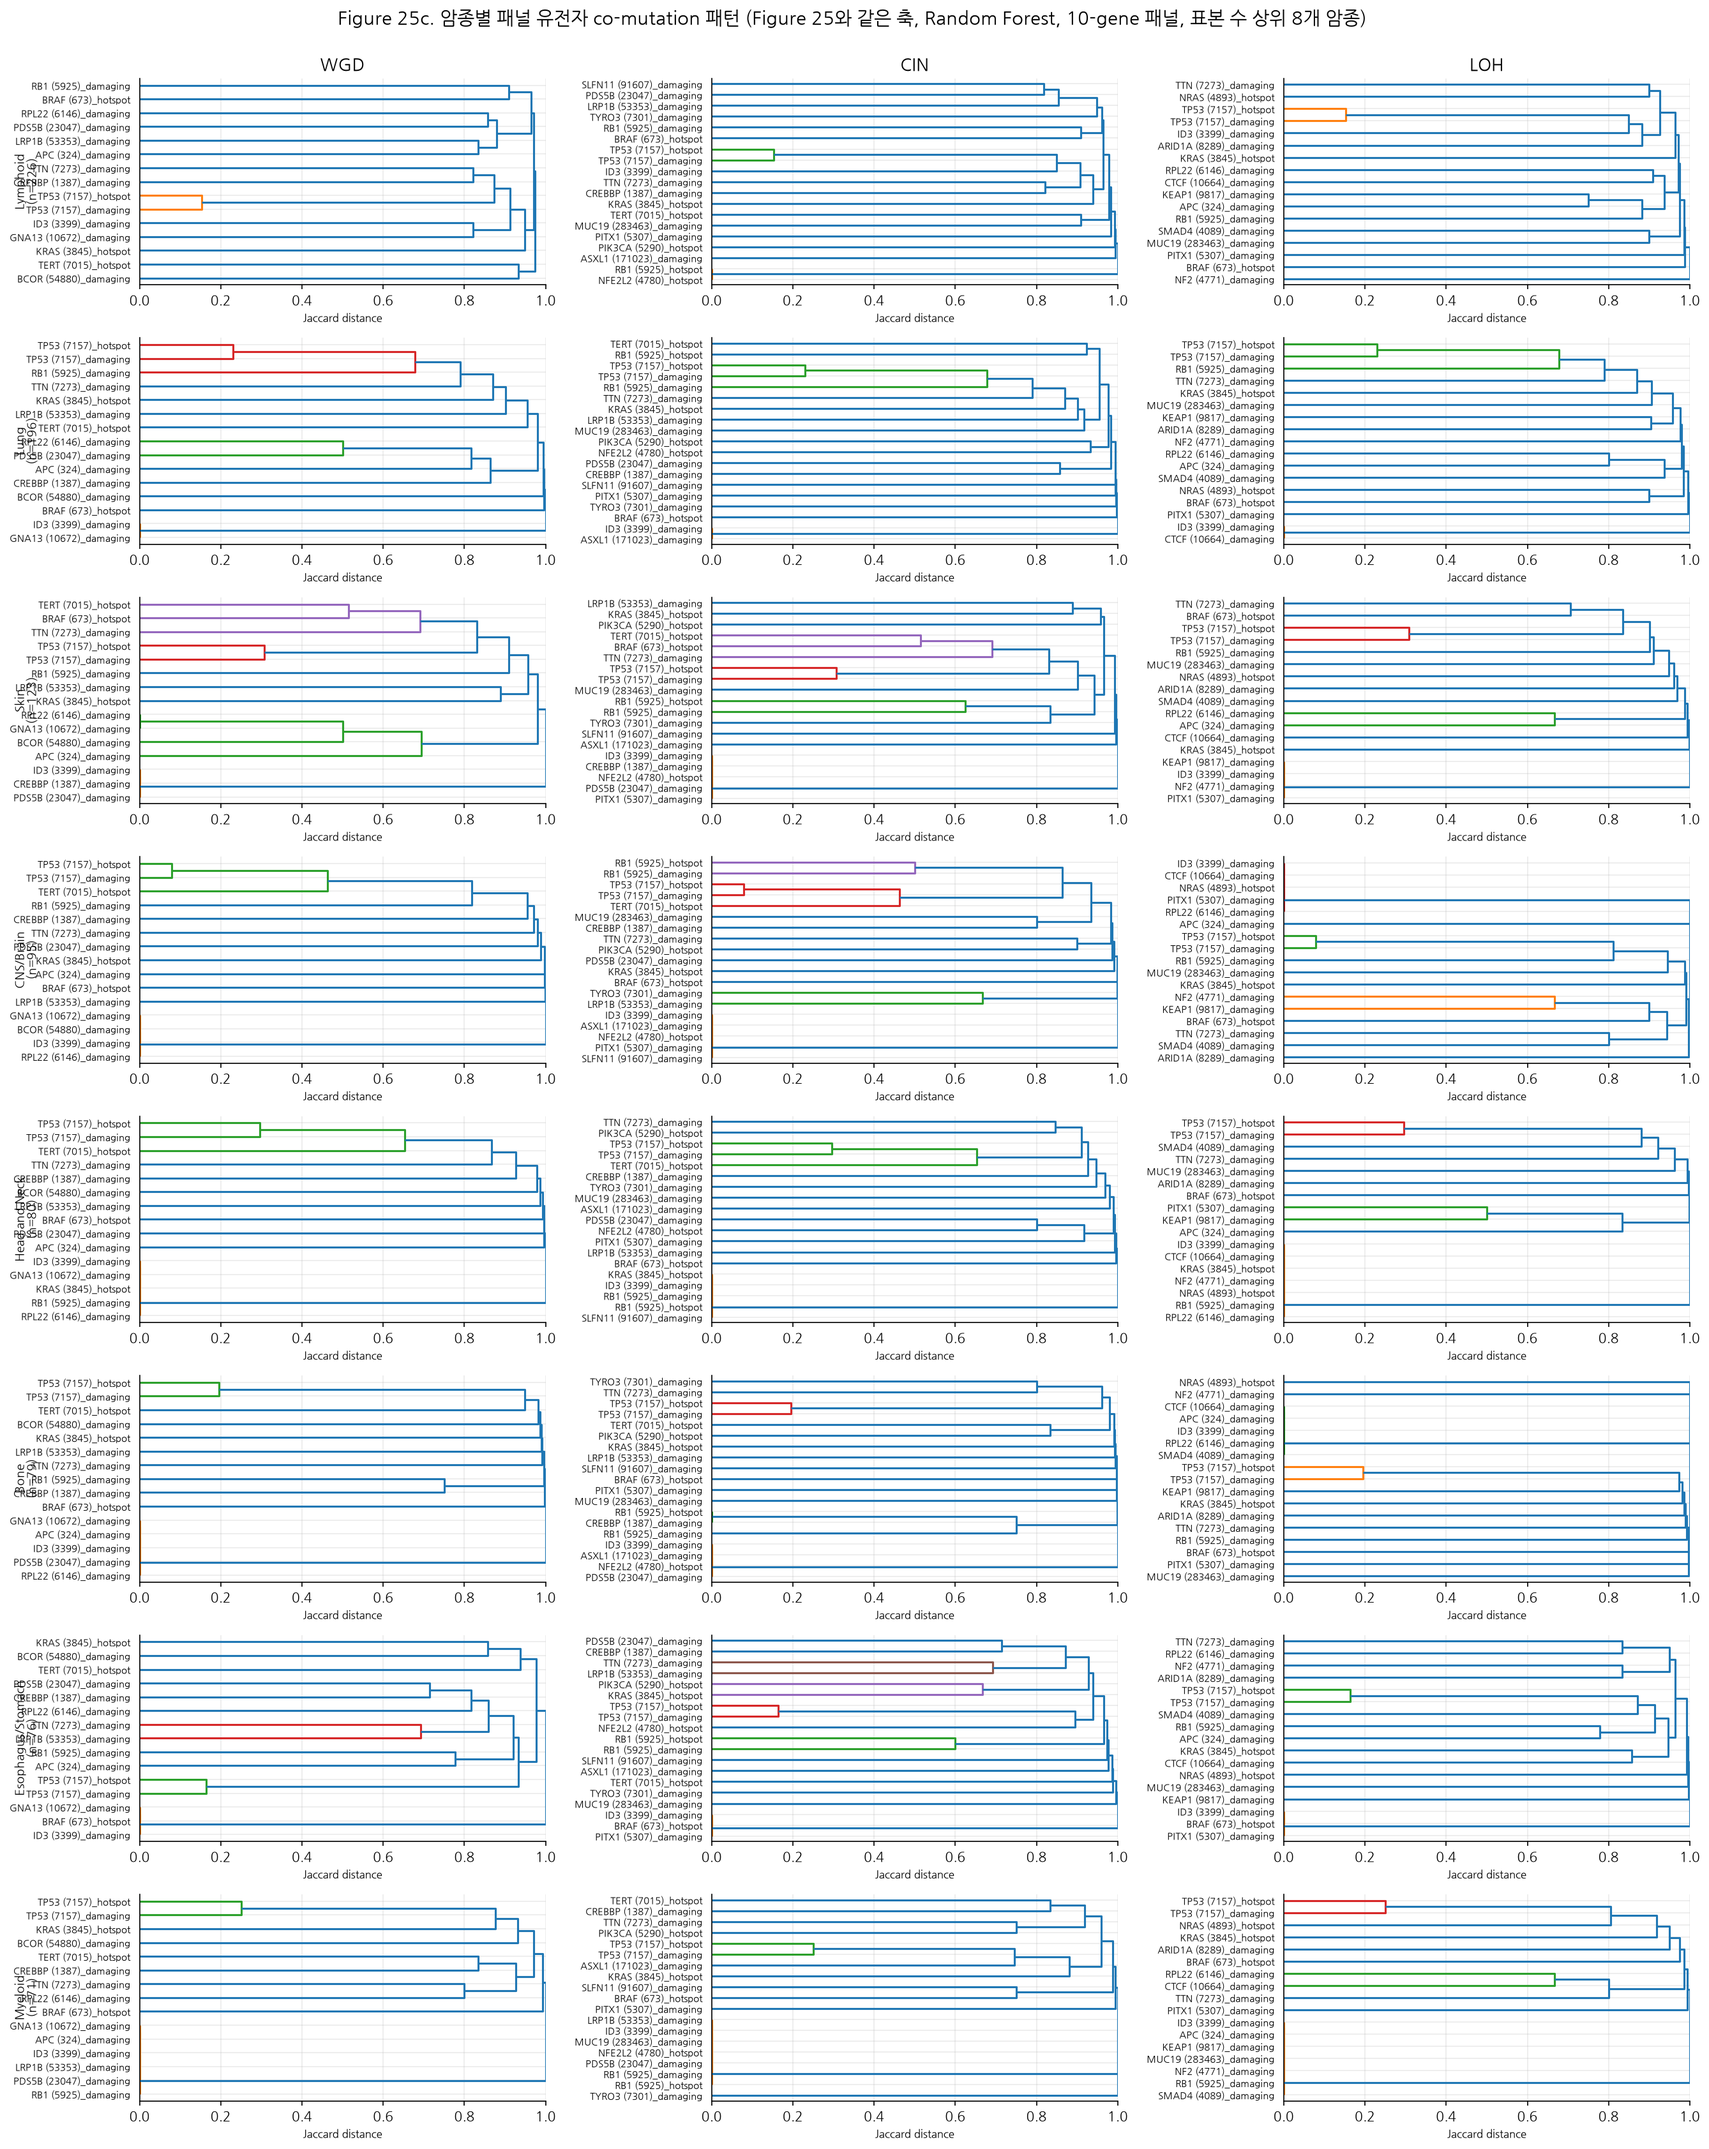
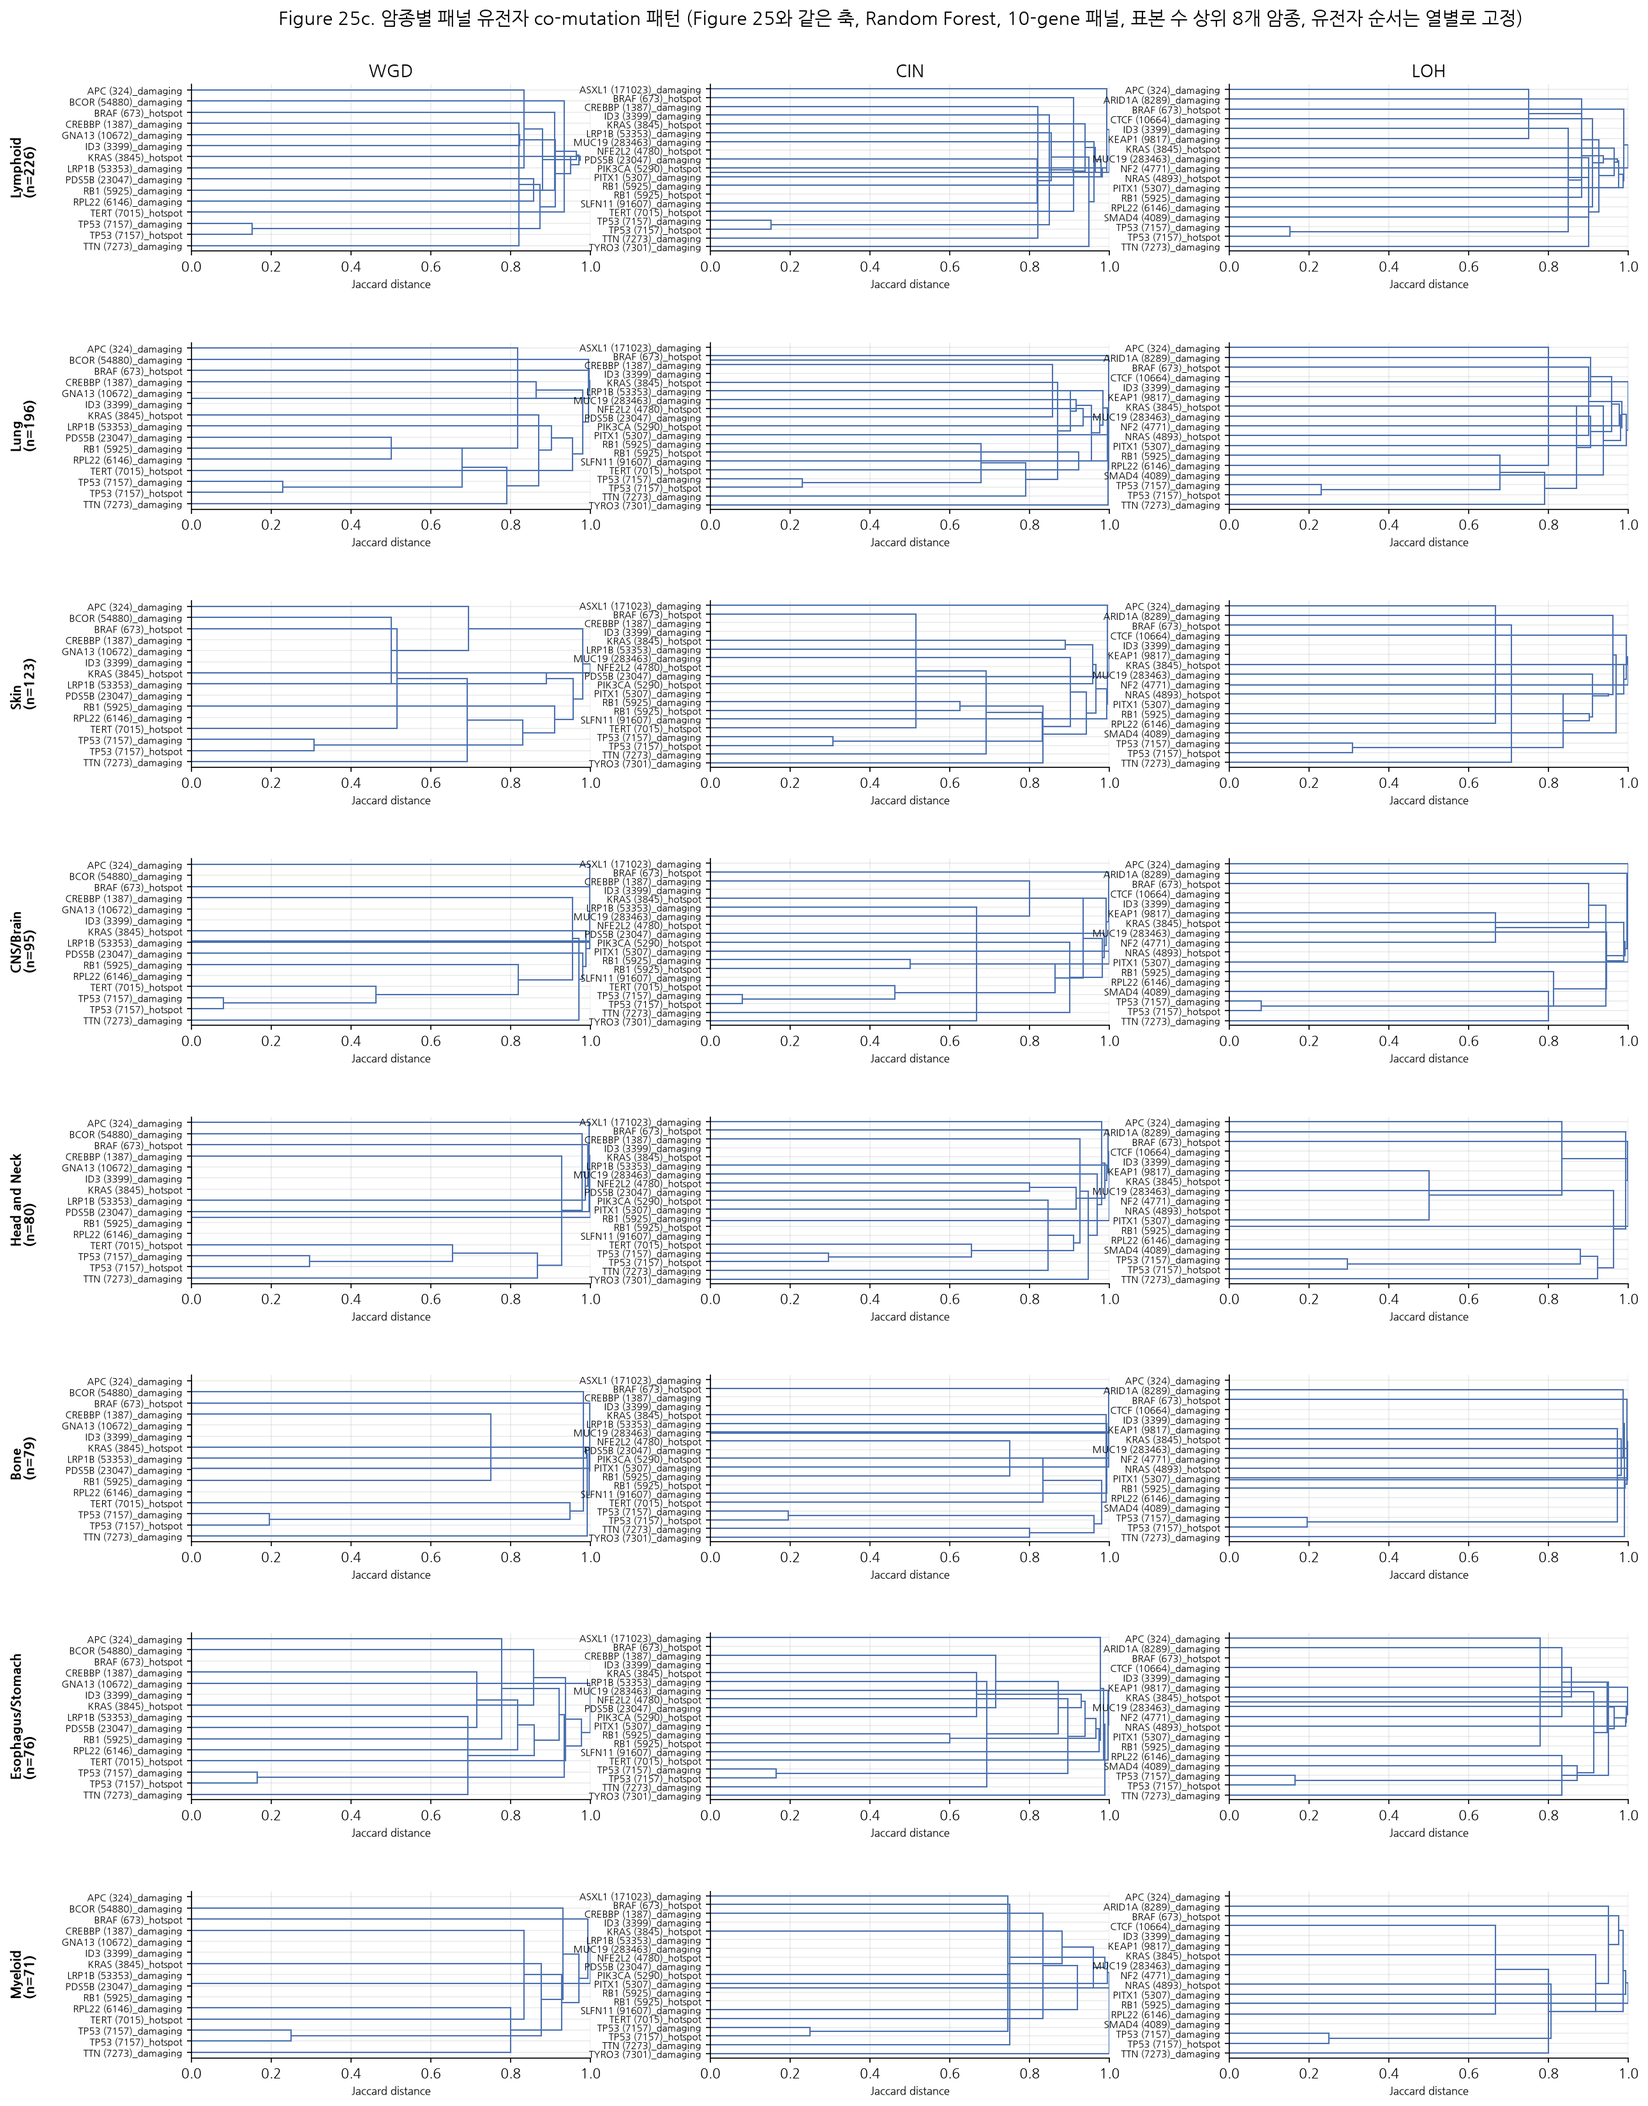
scripts: Fig25c 유전자 순서 열별 고정 + 암종 이름 가독성 개선
- scipy dendrogram()의 자동 잎 순서 배치 대신, 병합거리(Z)는 그대로 쓰고
  리프 y좌표만 표현형(열)별 알파벳순으로 고정해 직접 그리는
  draw_fixed_order_dendrogram() 추가 — 8개 암종 행을 세로로 바로 비교 가능
  (트리 선이 교차할 수 있으나 거리 구조는 정확함)
- 암종 이름(+n)을 y tick label과 안 겹치게 figure 왼쪽 여백에 굵게 별도 표기

Changed region(s): [[0.0, 0.0, 0.9915, 0.9991]]

diff --git a/scripts/48_plot_selection_dendrogram.py b/scripts/48_plot_selection_dendrogram.py
@@ -12,7 +12,11 @@ Figure 25b. 같은 3열(WGD/CIN/LOH) 구성이지만 행이 암종(lineage) —
 Figure 25c. Figure 25와 같은 축 구성(y=feature, x=Jaccard distance)을
 암종별로 반복 — 열은 WGD/CIN/LOH, 행은 표본 수 상위 암종. 셀 하나는
 '그 암종 샘플들 안에서 패널 유전자들이 서로 같이 mutated 되는 패턴'의
-Jaccard 기반 dendrogram (fold 대신 암종 내 샘플이 관측 단위).
+Jaccard 기반 dendrogram (fold 대신 암종 내 샘플이 관측 단위). 유전자
+순서(y축)는 표현형(열)마다 알파벳순으로 고정 — scipy 기본 dendrogram은
+군집 결과에 따라 매번 잎 순서를 다르게 배치해 8개 암종 행을 세로로
+비교하기 어려웠다. 고정 순서를 쓰는 대신 트리 선이 서로 교차할 수
+있다(거리·병합 구조 자체는 그대로 정확하다).
 """
 
 from __future__ import annotations
@@ -26,7 +30,7 @@ sys.path.insert(0, str(Path(__file__).resolve().parents[1]))
 import matplotlib.pyplot as plt
 import numpy as np
 import pandas as pd
-from scipy.cluster.hierarchy import dendrogram, linkage
+from scipy.cluster.hierarchy import dendrogram, linkage, to_tree
 from scipy.spatial.distance import pdist
 
 from src.config import REPO_ROOT
@@ -95,6 +99,37 @@ def plot_lineage_dendrogram(model: str, panel_size: int) -> Path:
     return save(fig, f"fig25b_lineage_dendrogram_{model}_panel{panel_size}.png")
 
 
+def draw_fixed_order_dendrogram(ax, Z: np.ndarray, labels: list[str], fixed_order: list[str],
+                                 color: str = "#4c72b0") -> None:
+    """`labels` 순서의 잎을 `fixed_order`가 정한 y위치에 강제로 그린다.
+
+    scipy dendrogram()은 잎 순서를 군집 결과에 따라 매번 다르게 정하므로,
+    여러 트리(암종별)를 같은 y축 순서로 나란히 비교할 수 없다. 병합 거리는
+    Z 그대로 쓰되, 각 리프의 y좌표만 외부에서 고정하고 내부 노드는 자식의
+    y좌표 평균으로 재귀 계산해 직접 선을 그린다 — 선이 교차할 수 있지만
+    병합 구조(거리)는 정확하다.
+    """
+    pos = {label: i for i, label in enumerate(fixed_order)}
+    tree = to_tree(Z)
+
+    def recurse(node):
+        if node.is_leaf():
+            return pos[labels[node.id]], 0.0
+        y_left, x_left = recurse(node.left)
+        y_right, x_right = recurse(node.right)
+        x_node = node.dist
+        ax.plot([x_left, x_node], [y_left, y_left], color=color, lw=1)
+        ax.plot([x_right, x_node], [y_right, y_right], color=color, lw=1)
+        ax.plot([x_node, x_node], [y_left, y_right], color=color, lw=1)
+        return (y_left + y_right) / 2, x_node
+
+    recurse(tree)
+    ax.set_yticks(range(len(fixed_order)))
+    ax.set_yticklabels(fixed_order, fontsize=7)
+    ax.set_ylim(-0.5, len(fixed_order) - 0.5)
+    ax.invert_yaxis()
+
+
 def gene_by_sample_matrix(genes: list[str], lineage: str, cohort) -> pd.DataFrame:
     """row=gene, col=이 암종 소속 샘플 — Figure 25의 row=gene/col=fold 와 같은 모양,
     fold 대신 암종 내 샘플을 관측 단위로 쓴다."""
@@ -109,33 +144,40 @@ def plot_lineage_feature_dendrogram(model: str, panel_size: int, top_n: int = TO
     counts = cohort.groups.value_counts()
     lineages = counts[counts >= MIN_LINEAGE_N].head(top_n).index.tolist()
 
-    fig, axes = plt.subplots(len(lineages), 3, figsize=(18, 2.8 * len(lineages)), squeeze=False)
+    # 표현형(열)마다 유전자 순서를 한 번만 고정 — 같은 열의 8개 암종 행이
+    # 전부 이 순서를 공유해야 세로 비교가 가능하다.
+    fixed_genes = {target: sorted(panel_genes(model, target, panel_size)) for target in TARGETS}
+
+    fig, axes = plt.subplots(len(lineages), 3, figsize=(19, 2.8 * len(lineages)), squeeze=False)
+    fig.subplots_adjust(left=0.11, top=0.95, bottom=0.03, hspace=0.55, wspace=0.3)
 
     for row, lineage in enumerate(lineages):
         for col, target in enumerate(TARGETS):
             ax = axes[row][col]
-            genes = panel_genes(model, target, panel_size)
+            genes = fixed_genes[target]
             matrix = gene_by_sample_matrix(genes, lineage, cohort)
             distances = pdist(matrix.to_numpy(), metric="jaccard")
             distances = np.nan_to_num(distances, nan=0.0)  # 두 유전자 모두 이 암종에서 mutation 0건이면 0/0
             if len(matrix) > 1:
-                dendrogram(linkage(distances, method="average"), labels=matrix.index.tolist(),
-                           orientation="right", ax=ax)
+                Z = linkage(distances, method="average")
+                draw_fixed_order_dendrogram(ax, Z, labels=matrix.index.tolist(), fixed_order=genes)
             else:
-                ax.text(0.5, 0.5, matrix.index[0], ha="center", va="center")
+                ax.set_yticks(range(len(genes)))
+                ax.set_yticklabels(genes, fontsize=7)
+                ax.invert_yaxis()
             ax.set_xlim(0, 1)
-            ax.tick_params(axis="y", labelsize=7)
             ax.set_xlabel("Jaccard distance", fontsize=8)
             if row == 0:
                 ax.set_title(f"{TARGETS[target]}", fontsize=13)
-            if col == 0:
-                ax.text(-0.28, 0.5, f"{lineage}\n(n={int(counts[lineage])})", transform=ax.transAxes,
-                        rotation=90, ha="center", va="center", fontsize=9)
+
+        # 암종 이름은 y tick label과 겹치지 않도록 subplot 밖(figure 왼쪽 여백)에 별도로 붙인다.
+        bbox = axes[row][0].get_position()
+        fig.text(0.01, (bbox.y0 + bbox.y1) / 2, f"{lineage}\n(n={int(counts[lineage])})",
+                  rotation=90, ha="left", va="center", fontsize=10, fontweight="bold")
 
     fig.suptitle(f"Figure 25c. 암종별 패널 유전자 co-mutation 패턴 (Figure 25와 같은 축, "
                  f"{MODEL_LABEL.get(model, model)}, {panel_size}-gene 패널, "
-                 f"표본 수 상위 {top_n}개 암종)", y=1.0, fontsize=14)
-    fig.tight_layout()
+                 f"표본 수 상위 {top_n}개 암종, 유전자 순서는 열별로 고정)", y=0.985, fontsize=14)
     return save(fig, f"fig25c_lineage_feature_dendrogram_{model}_panel{panel_size}.png")
 
 
